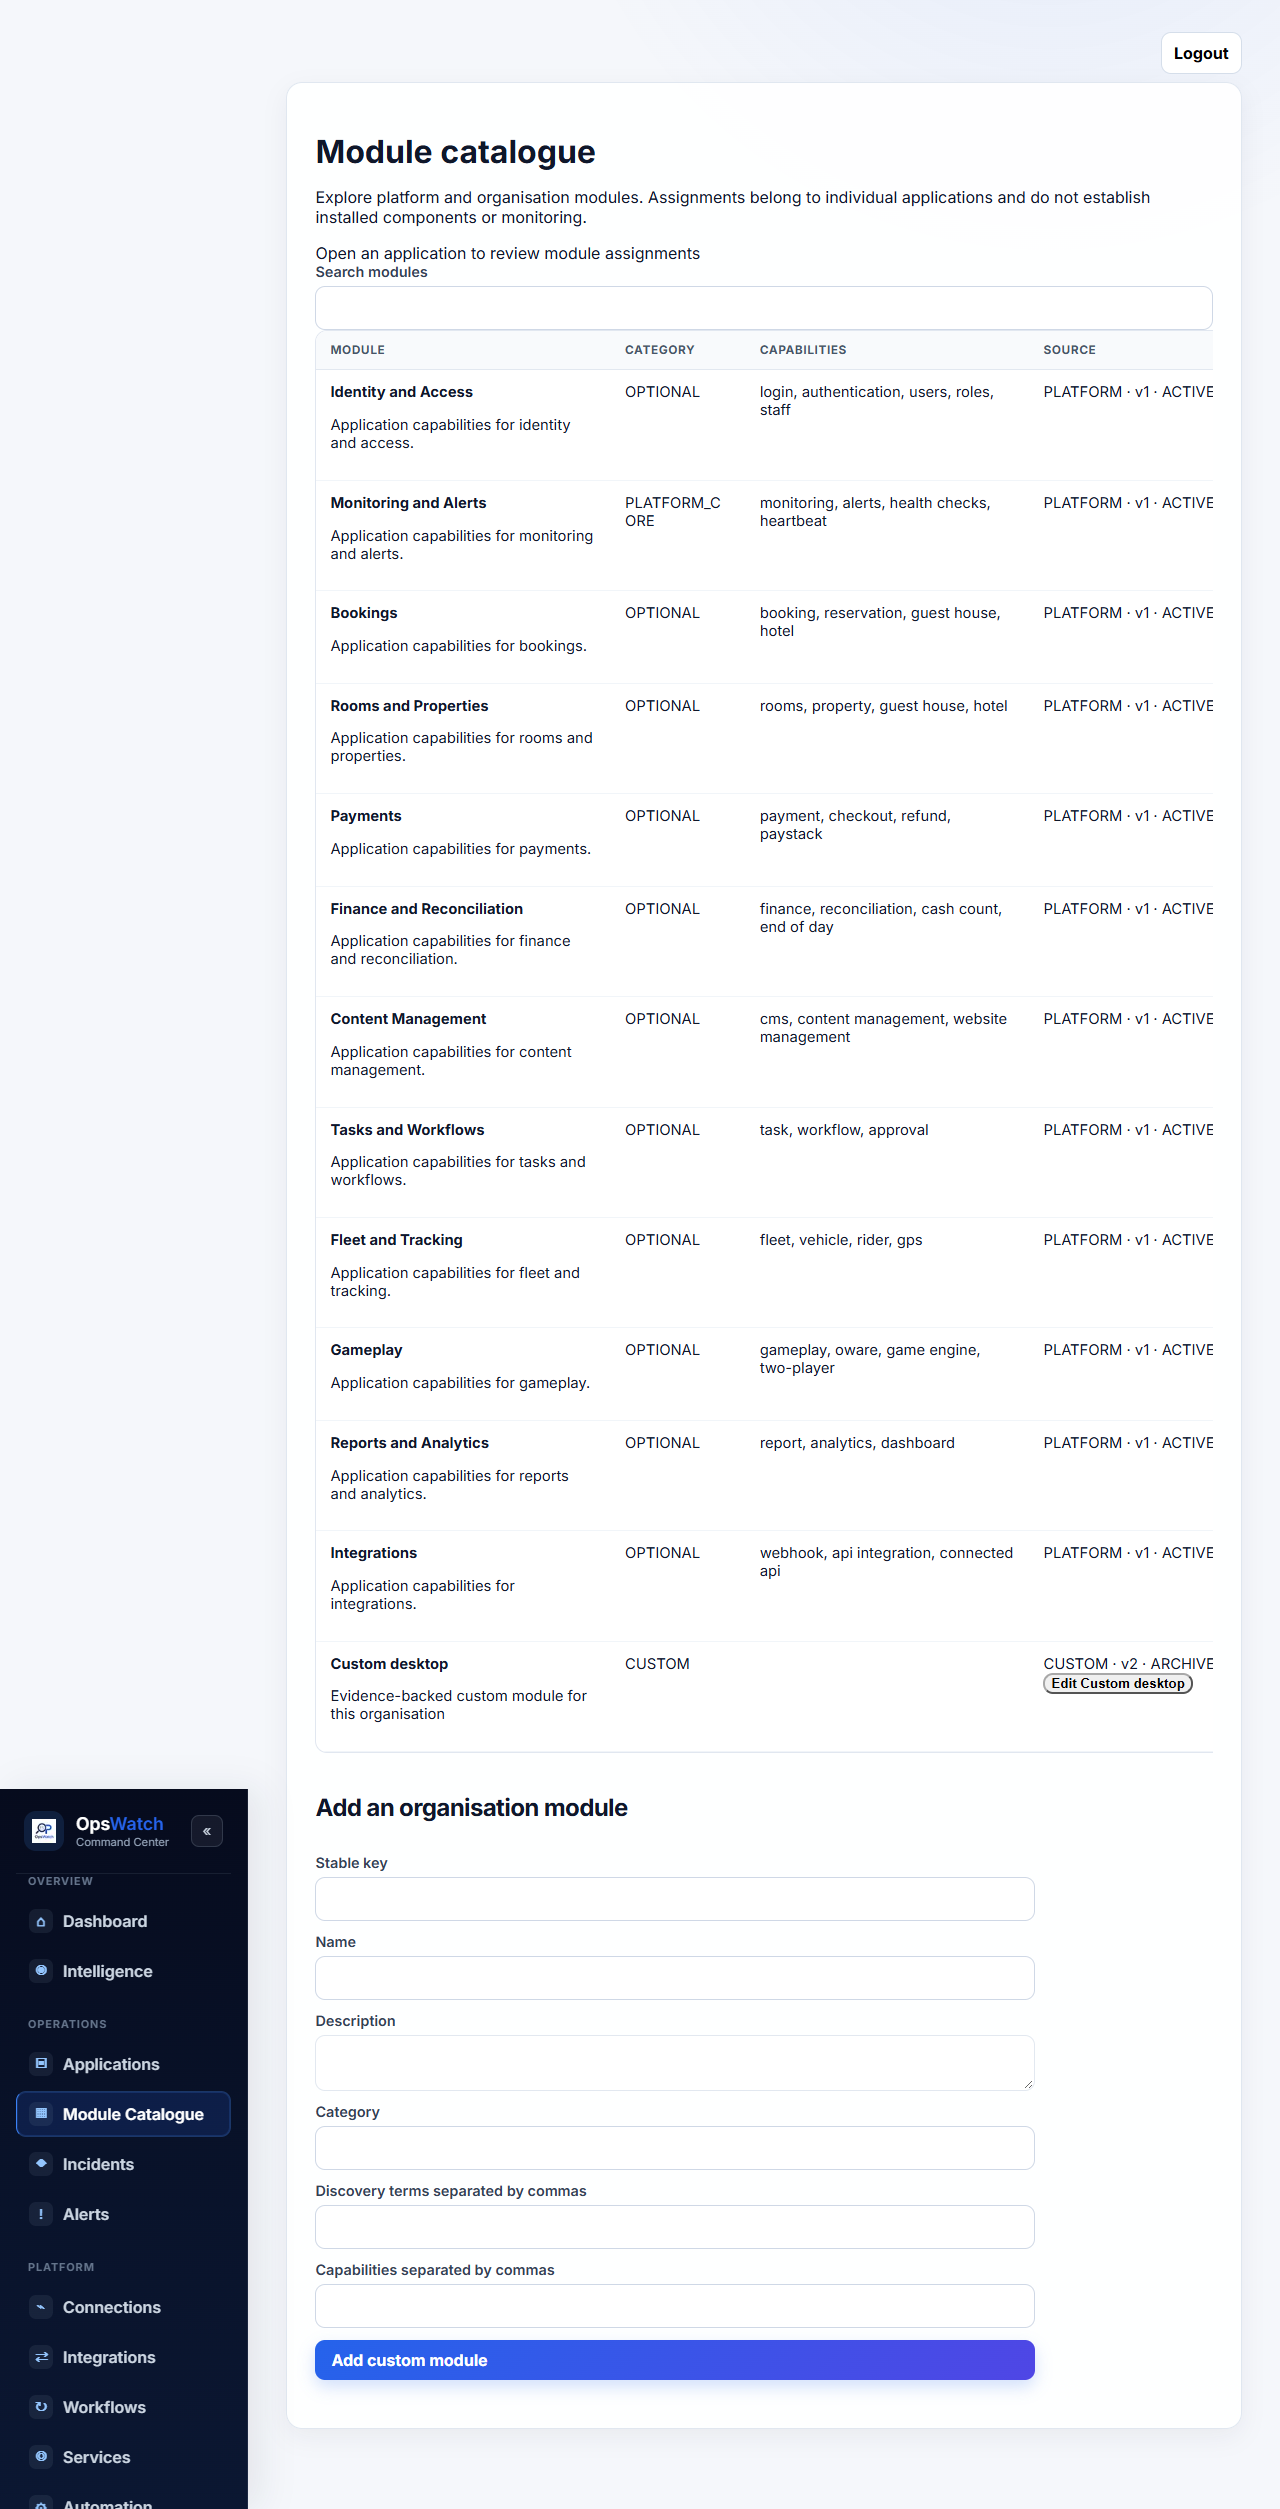
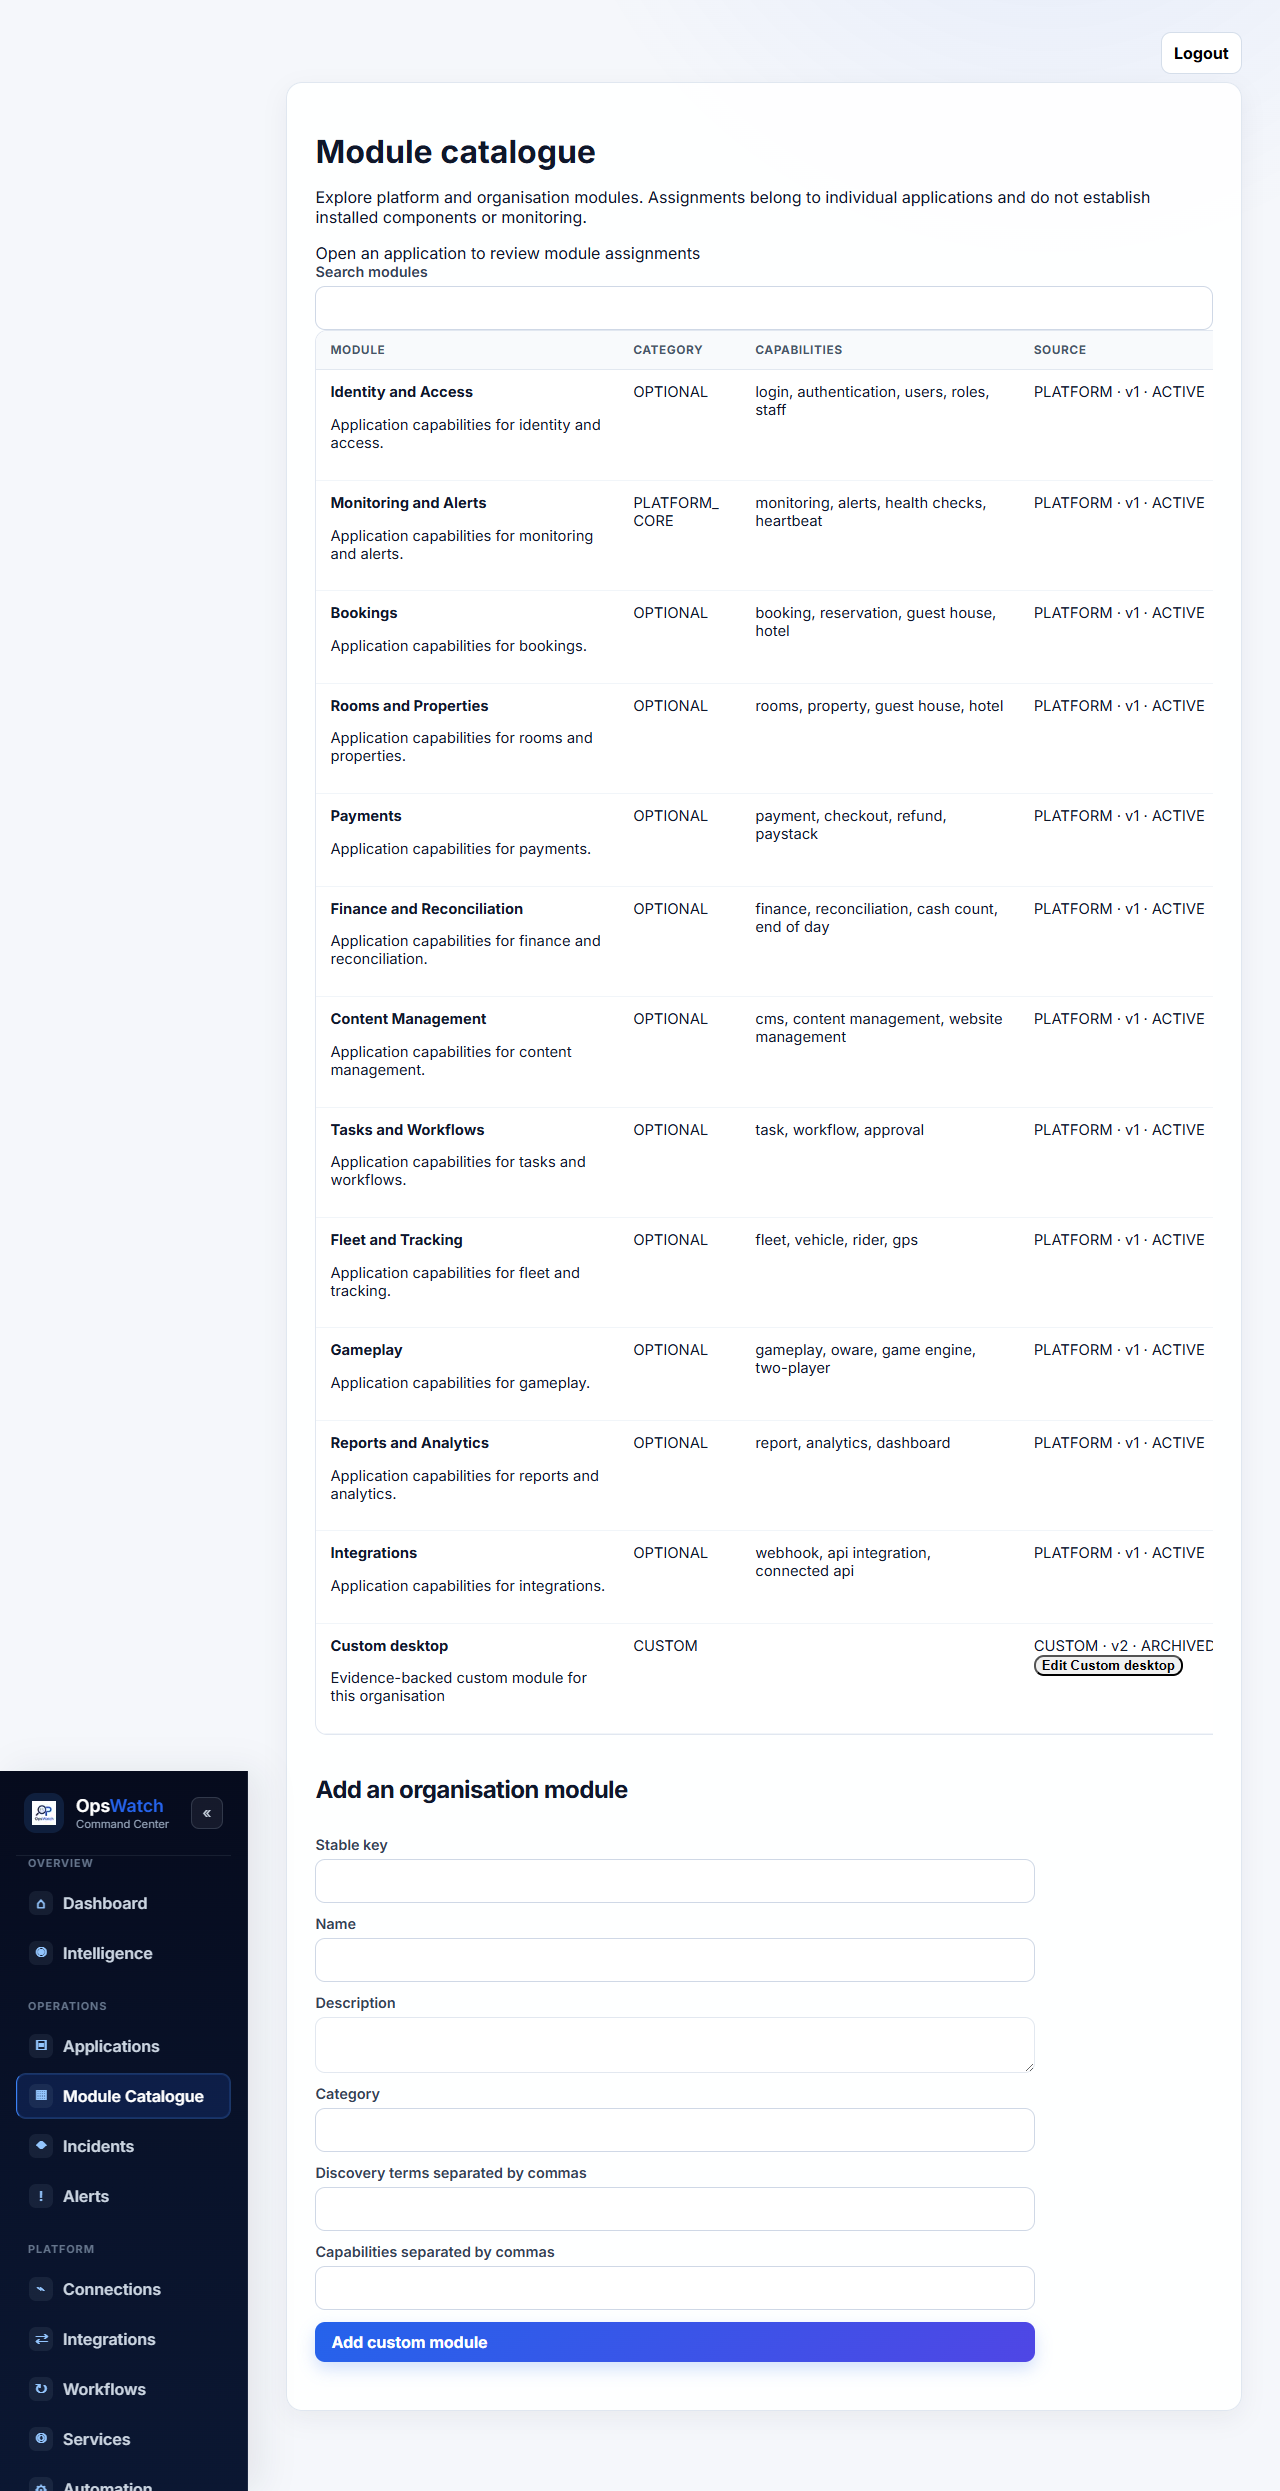
fix(web): contain catalogue tables within mobile viewport

diff --git a/apps/web/e2e/issue19-catalogue.spec.ts b/apps/web/e2e/issue19-catalogue.spec.ts
@@ -18,6 +18,9 @@ test("owner discovery, review, catalogue management and tenant boundaries", asyn
   await page.reload();
   await expect(row.getByText("APPROVED", { exact: true })).toBeVisible();
   await expect(row.getByRole("textbox", { name: "Owner note for Gameplay" })).toHaveValue("Reviewed against the application description");
+  const panelBounds = await page.getByRole("region", { name: "Module catalogue and assignments" }).boundingBox();
+  expect(panelBounds).not.toBeNull();
+  expect(panelBounds!.x + panelBounds!.width).toBeLessThanOrEqual(page.viewportSize()!.width);
   const after = await (await page.request.get(`/api/projects/${projectId}/topology`)).json();
   expect(after.nodes.map((node: { id: string }) => node.id)).toEqual(before.nodes.map((node: { id: string }) => node.id));
   expect(after.edges).toEqual(before.edges);

diff --git a/apps/web/src/styles/globals.css b/apps/web/src/styles/globals.css
@@ -667,6 +667,10 @@ h1 {
   margin: 20px 0;
   max-width: 720px;
 }
+.module-catalogue-panel {
+  min-width: 0;
+  overflow-wrap: anywhere;
+}
 .module-definition-form label {
   display: grid;
   gap: 6px;
@@ -701,6 +705,8 @@ h1 {
 }
 .table-scroll {
   width: 100%;
+  max-width: 100%;
+  min-width: 0;
   overflow-x: auto;
 }
 

diff --git a/docs/issue-19-release-verification.md b/docs/issue-19-release-verification.md
@@ -40,11 +40,11 @@ The disposable test harness reconstructs the audited baseline in a newly generat
 | Lint/typecheck | Passed; one existing topology page `selectedEdge` hook dependency warning remains. |
 | Full unit suite | API 654 passed (47 database-gated skips), worker 43 passed (3 database-gated skips), web 228 passed across 53 files. Four additional route-boundary/concurrency tests passed after the runtime corrections. |
 | PostgreSQL integration | API 701 passed across 161 files and worker 46 passed across 17 files against disposable PostgreSQL 18; additive migration/schema parity passed. |
-| Browser acceptance | Desktop Chrome and mobile Chromium both passed against local built servers and a fresh disposable database. Requires full AI capability payload, persisted approval/note after reload, unchanged topology after approval, custom definition create/archive, foreign-tenant denial and missing-CSRF rejection. |
+| Browser acceptance | Desktop and mobile Chromium both passed against local built servers and a fresh disposable database. Requires a catalogue panel within the viewport, full AI capability payload, persisted approval/note after reload, unchanged topology after approval, custom definition create/archive, foreign-tenant denial and missing-CSRF rejection. Chrome was also exercised. |
 
 The first browser extension exposed the billing-route gate; a subsequent run exposed the plan-seeding race rather than accepting a partial fallback as full readiness. Both were corrected and acceptance rerun. The first GitHub database job failed because shallow checkout omitted the baseline commit; the database job now fetches history. CI runs on Node 22/PostgreSQL 17; local checks used Node 26/PostgreSQL 18. No real model provider calls or live production smoke tests were made.
 
-Final CI is tracked in [PR checks](https://github.com/adjeteyokangj-hash/OpsWatch/pull/20/checks). The screenshots below use disposable fixtures and contain no production data:
+[CI verified the runtime implementation](https://github.com/adjeteyokangj-hash/OpsWatch/actions/runs/39969253232), including 705 API and 46 worker database tests and both browser projects. Final revision CI is tracked in [PR checks](https://github.com/adjeteyokangj-hash/OpsWatch/pull/20/checks). The screenshots below use disposable fixtures and contain no production data:
 
 | View | Desktop | Mobile |
 | --- | --- | --- |
